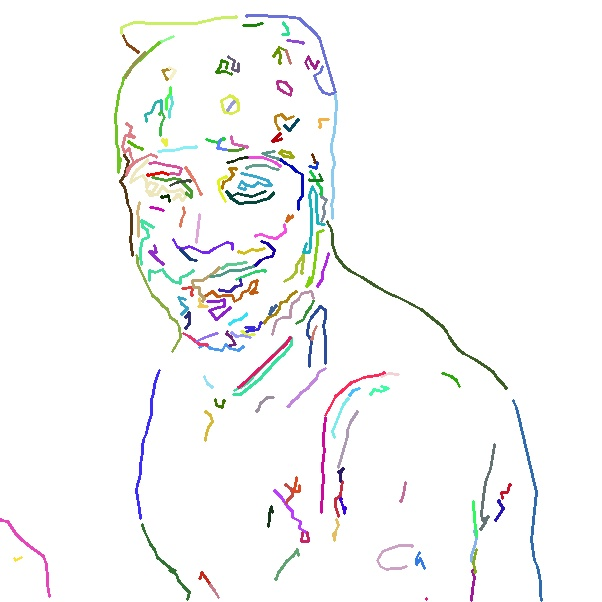
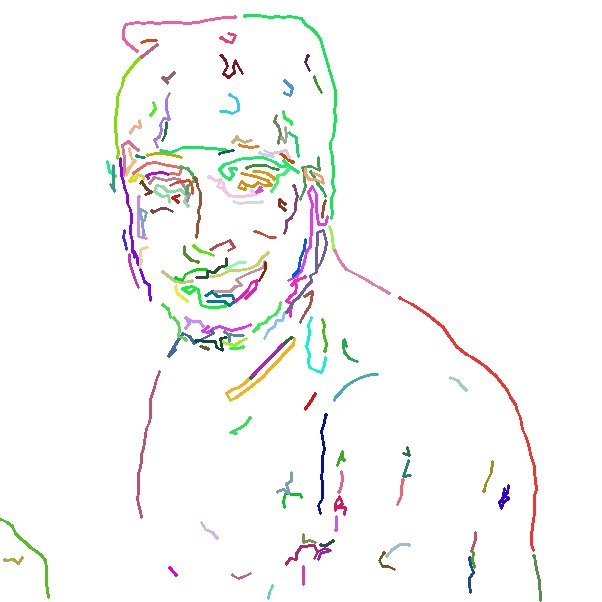
added more image outputs

diff --git a/face_full_processing.py b/face_full_processing.py
@@ -60,8 +60,10 @@ else:
 
 facemap = facemesh.get_facemesh(filename)
 gray = cv2.cvtColor(input_img, cv2.COLOR_BGR2GRAY)
-blur = cv2.GaussianBlur(gray, (13, 13), 0)
 
+blur = cv2.GaussianBlur(gray, (21, 21), 0)
+cv2.imwrite("blurred.jpg", blur)
+cv2.imwrite("facemesh.jpg", facemap)
 # cv2.imwrite('edges.jpg',edges)
 
 for y in range(len(blur)):
@@ -210,7 +212,7 @@ with open("path.pickle", 'wb') as file:
 print("{} segments with a total of {} points".format(len(segments), sum(len(seg) for seg in segments)))
 cv2.imwrite('houghlines6.jpg', img)
 cv2.imwrite('gray.jpg', gray)
-cv2.imwrite("blur.jpg", blur)
+cv2.imwrite("final.jpg", blur)
 
 
 edges = cv2.Canny(gray,0,40)
